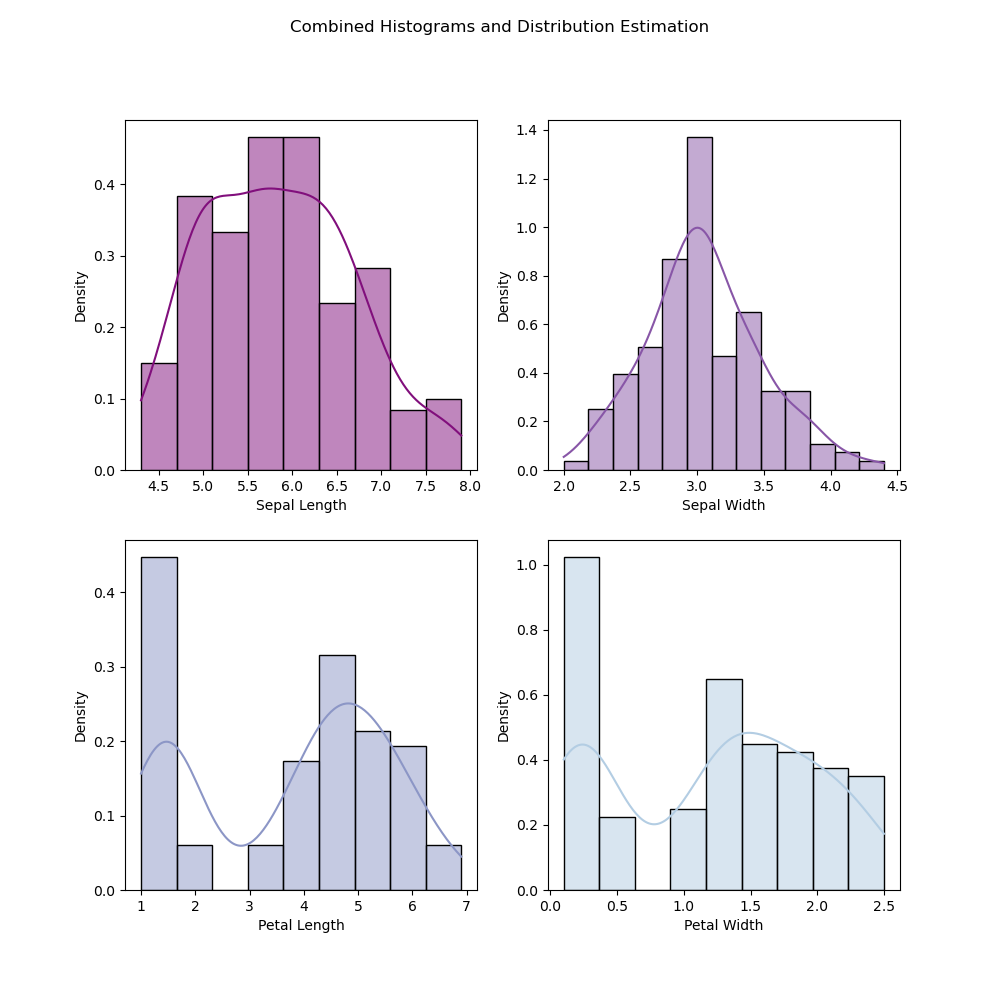
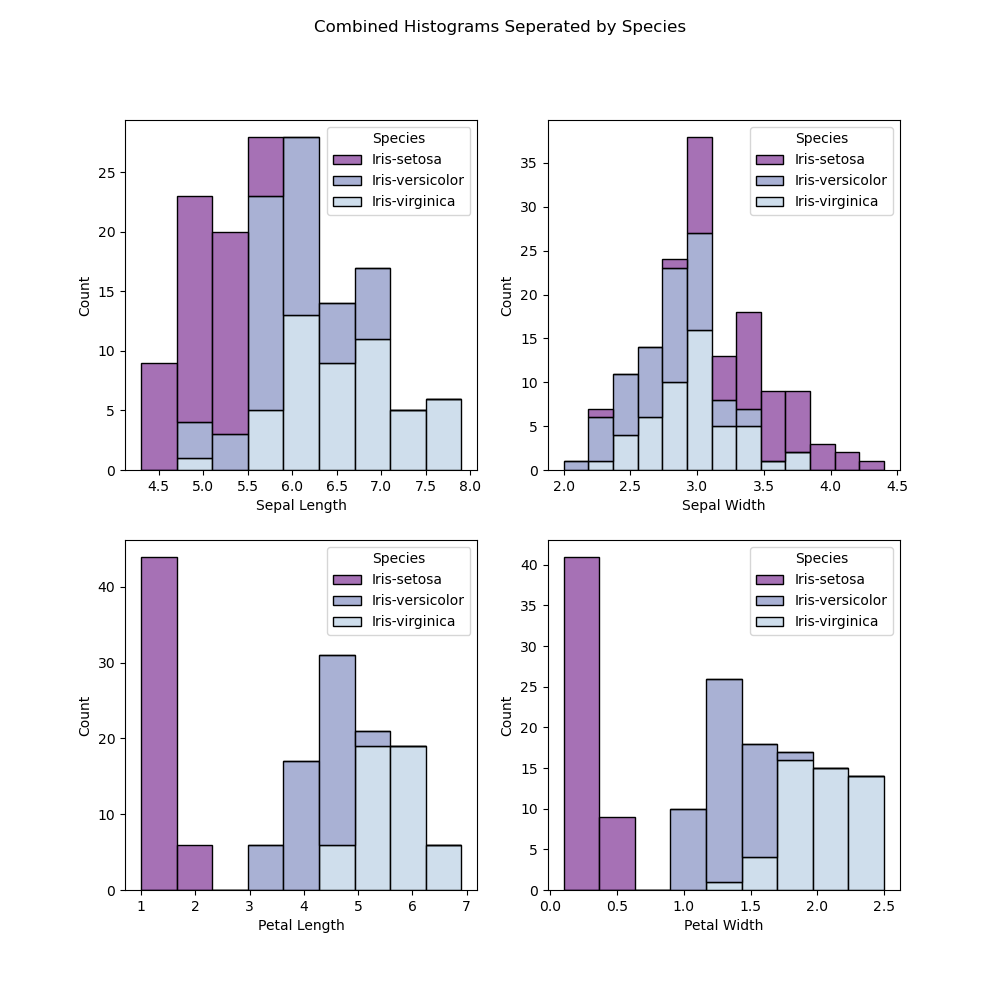
Dist Plot changed to stacked Histogram

diff --git a/analysis.py b/analysis.py
@@ -126,13 +126,14 @@ def scatterPlots():
 ##########################################################################
 def distPlot():
     distplot, axes = plt.subplots(2,2, figsize=(10,10), sharex=False)
-    sns.histplot( df["Sepal Length"] , kde = True, stat="density", linewidth=1, color="#810f7c", ax=axes[0, 0])
-    sns.histplot( df["Sepal Width" ] , kde = True, stat="density", linewidth=1, color="#8856a7" ,ax=axes[0, 1]) 
-    sns.histplot( df["Petal Length"] , kde = True, stat="density", linewidth=1, color="#8c96c6", ax=axes[1, 0]) 
-    sns.histplot( df["Petal Width" ] , kde = True, stat="density", linewidth=1, color="#b3cde3", ax=axes[1, 1])
-    plt.suptitle("Combined Histograms and Distribution Estimation")
+    sns.histplot( x="Sepal Length", hue="Species", data = df, palette="BuPu_r", ax=axes[0,0], multiple = "stack")
+    sns.histplot( x="Sepal Width",  hue="Species", data = df, palette="BuPu_r", ax=axes[0,1], multiple = "stack")
+    sns.histplot( x="Petal Length", hue="Species", data = df, palette="BuPu_r", ax=axes[1,0], multiple = "stack")
+    sns.histplot( x="Petal Width",  hue="Species", data = df, palette="BuPu_r", ax=axes[1,1], multiple = "stack")
+    plt.suptitle("Combined Histograms Seperated by Species")
     plt.savefig("./plots/distPlot.png")
     plt.show()
+
 ##########################################################################
 def stack():
     df.plot(kind='barh', stacked=True)  
@@ -170,11 +171,10 @@ def heatMap():
     plt.savefig("./plots/hMap.png")
     plt.show()
 
-
 #dataSummary()
 #histograms()
 #scatterPlots()
-#distPlot()
+distPlot()
 #boxPlots()
 #violinPlots()
 #stack()

diff --git a/README.md b/README.md
@@ -290,19 +290,19 @@ The first plot to perform is to visualise the distribution of each variable, the
 
 ![alt text](https://github.com/ShanePAustin/pands-project2021/blob/main/Plots/SLHist.png "Sepal Length Histogram")
 
-The highest frequencies of Sepal Length are around 5.5cm and 6.25cm both with a count over 25, there is another peak around 4.75-5cm of 23. These are likely to indicate the means of the three seperate species. 
+* The highest frequencies of Sepal Length are around 5.5cm and 6.25cm both with a count over 25, there is another peak around 4.75-5cm of 23. These are likely to indicate the means of the three seperate species. 
 
 ![alt text](https://github.com/ShanePAustin/pands-project2021/blob/main/Plots/SWHist.png "Sepal Width Histogram")
 
-Sepal Width has a more standard distribution with the highest frequency around 3cm with a count of over 35 instances.
+* Sepal Width has a more standard distribution with the highest frequency around 3cm with a count of over 35 instances.
 
 ![alt text](https://github.com/ShanePAustin/pands-project2021/blob/main/Plots/PLHist.png "Petal Length Histogram")
 
-Petal Length has two distinct peaks the largest is around 1-1.5cm, this is likely due to the trend that Iris Setosa petals are significantly shorter than the other 2 subspecies. 
+* Petal Length has two distinct peaks the largest is around 1-1.5cm, this is likely due to the trend that Iris Setosa petals are significantly shorter than the other 2 subspecies. 
 
 ![alt text](https://github.com/ShanePAustin/pands-project2021/blob/main/Plots/PWHist.png "Petal Width Histogram")
 
-Petal Width also has three distinct peaks which are likely attributed to the 3 subspecies.
+* Petal Width also has three distinct peaks which are likely attributed to the 3 subspecies.
 
 The sample code for one Histogram is shown below:
 
@@ -313,6 +313,8 @@ The sample code for one Histogram is shown below:
     plt.xlabel("Sepal Length")
     ax.set_facecolor("lightgrey")
 ```
+
+
 
 ![alt text](https://github.com/ShanePAustin/pands-project2021/blob/main/Plots/distPlot.png "Dist Plot")
 
